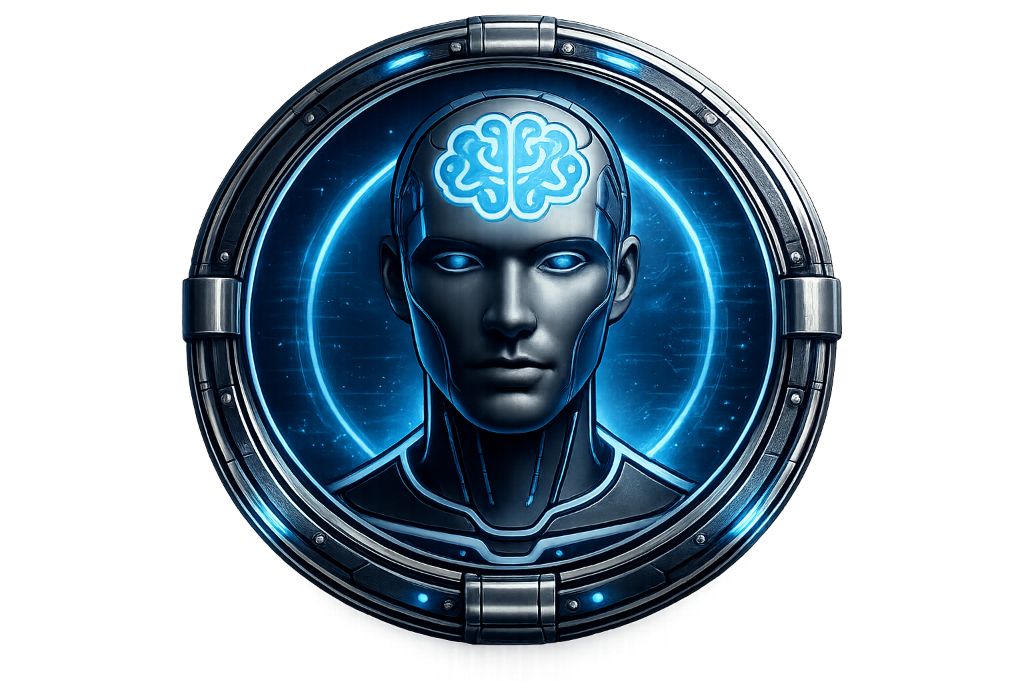
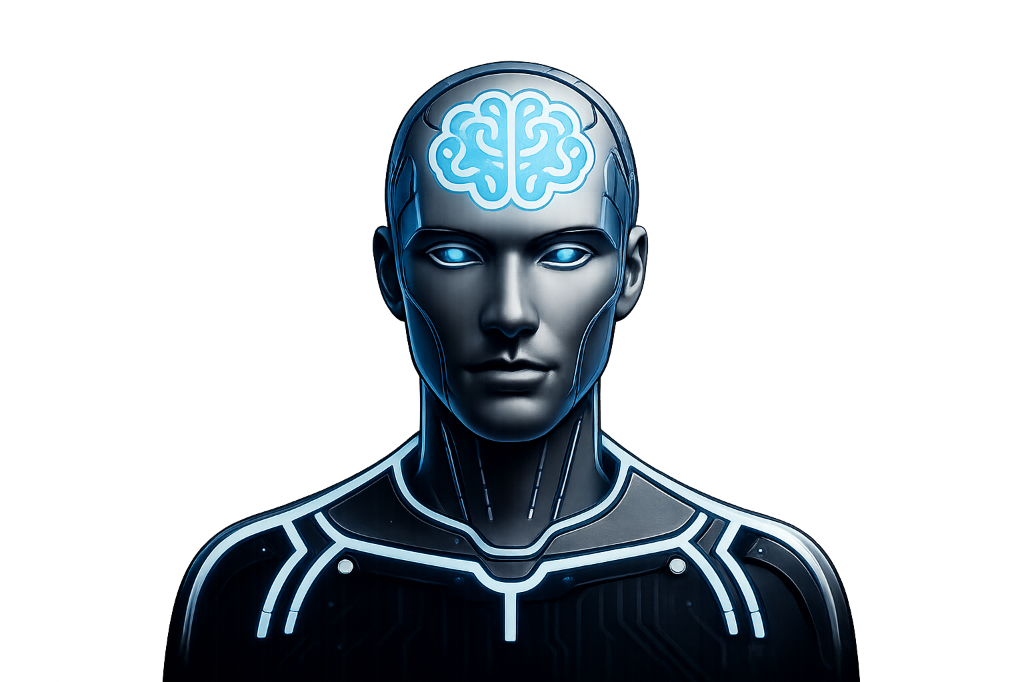
feat: remove goals from sidebar, add to hamburger menu + rule violation popup + jarvis UI update
1. Goals Box: removed from right sidebar, now accessible via
   hamburger menu under 'Bankroll Rules' → 'Goals'
2. Rule Violation Popup: after logging a session, checks bankroll
   rules (stop-loss, max buy-in %, win goal) and shows a notification
   popup when any rule is violated
3. Jarvis Box: background now matches page bg (dark navy), removed
   'Run AI analysis' text, new profile pic, enlarged avatar with border
4. New Jarvis avatar: user-provided cybernetic robot image

diff --git a/pages/hub/bankroll-manager.js b/pages/hub/bankroll-manager.js
@@ -217,6 +217,7 @@ export default function BankrollManagerPage() {
   const [locations, setLocations] = useState([]);
   const [leakAnalysis, setLeakAnalysis] = useState(null);
   const [showVenueModal, setShowVenueModal] = useState(false);
+  const [ruleViolations, setRuleViolations] = useState([]);
 
   //  INTRO VIDEO STATE - Video plays while page loads in background
   // Only show once per session (not on every reload)
@@ -294,6 +295,61 @@ export default function BankrollManagerPage() {
     setShowLogModal(false);
     setEditEntry(null);
     await loadData();
+
+    // Check rules for violations after logging
+    if (userId) {
+      try {
+        const rules = await fetchBankrollRules(userId);
+        if (rules && rules.length > 0) {
+          // Refresh stats & entries to get latest data
+          const dateRange = getDateRangeFilter(timeFilter);
+          const [latestStats, latestEntries] = await Promise.all([
+            getBankrollStats(userId, dateRange.startDate, dateRange.endDate, locationFilter),
+            fetchLedgerEntries(userId, { startDate: dateRange.startDate, endDate: dateRange.endDate, includeExpenses: true, limit: 50 }),
+          ]);
+
+          const violations = [];
+          const today = new Date().toISOString().split('T')[0];
+          const todayEntries = latestEntries.filter(e => e.entry_date === today);
+          const todayNet = todayEntries.reduce((sum, e) => sum + ((e.gross_out || 0) - (e.gross_in || 0)), 0);
+          const lastEntry = latestEntries[0];
+          const lastSessionNet = lastEntry ? ((lastEntry.gross_out || 0) - (lastEntry.gross_in || 0)) : 0;
+
+          for (const rule of rules) {
+            const val = rule.value;
+            switch (rule.rule_type) {
+              case 'stop_loss_session':
+                if (lastSessionNet < 0 && Math.abs(lastSessionNet) >= val)
+                  violations.push({ rule: 'Session Stop-Loss', limit: `$${val}`, actual: `-$${Math.abs(lastSessionNet)}`, severity: 'high' });
+                break;
+              case 'stop_loss_day':
+                if (todayNet < 0 && Math.abs(todayNet) >= val)
+                  violations.push({ rule: 'Daily Stop-Loss', limit: `$${val}`, actual: `-$${Math.abs(todayNet)}`, severity: 'high' });
+                break;
+              case 'max_buyin_percent': {
+                const bankroll = latestStats?.totalBankroll || 0;
+                if (bankroll > 0 && lastEntry) {
+                  const buyinPercent = ((lastEntry.gross_in || 0) / bankroll) * 100;
+                  if (buyinPercent > val)
+                    violations.push({ rule: 'Max Buy-In %', limit: `${val}%`, actual: `${buyinPercent.toFixed(1)}%`, severity: 'medium' });
+                }
+                break;
+              }
+              case 'win_goal_session':
+                if (lastSessionNet > 0 && lastSessionNet >= val)
+                  violations.push({ rule: 'Win Goal Reached!', limit: `$${val}`, actual: `+$${lastSessionNet}`, severity: 'info' });
+                break;
+            }
+          }
+
+          if (violations.length > 0) {
+            setRuleViolations(violations);
+          }
+        }
+      } catch (err) {
+        console.error('[RuleCheck] Error:', err);
+      }
+    }
   };
 
   // Gate Log+ behind bankroll check
@@ -874,6 +930,18 @@ export default function BankrollManagerPage() {
               </div>
             )}
 
+            {/* Goals View (from hamburger menu) */}
+            {activeSection === 'goals' && (
+              <div style={styles.activitySection}>
+                <h2 style={styles.sectionTitle}>Bankroll Goals</h2>
+                <BankrollGoals
+                  userId={userId}
+                  currentBankroll={stats?.currentBankroll || 0}
+                  periodPL={stats?.monthlyPL || 0}
+                />
+              </div>
+            )}
+
             {/* Player Notes View */}
             {activeSection === 'players' && (
               <PlayerNotes userId={userId} />
@@ -1111,13 +1179,6 @@ export default function BankrollManagerPage() {
             {/* Jarvis AI Insights */}
             <JarvisLeakInsights userId={userId} onRefresh={loadData} />
 
-            {/* Goals */}
-            <BankrollGoals
-              userId={userId}
-              currentBankroll={stats?.currentBankroll || 0}
-              periodPL={stats?.monthlyPL || 0}
-            />
-
             {/* Historical Comparison */}
             <HistoricalComparison entries={entries.filter(e => e.category === 'expense' || gameTypeFilter.has(e.category))} />
 
@@ -1222,6 +1283,103 @@ export default function BankrollManagerPage() {
               </motion.div>
             </motion.div>
           )
+        )}
+      </AnimatePresence>
+
+      {/* Rule Violation Notification Popup */}
+      <AnimatePresence>
+        {ruleViolations.length > 0 && (
+          <motion.div
+            initial={{ opacity: 0 }}
+            animate={{ opacity: 1 }}
+            exit={{ opacity: 0 }}
+            style={{
+              position: 'fixed', inset: 0,
+              background: 'rgba(0,0,0,0.75)',
+              backdropFilter: 'blur(6px)',
+              zIndex: 10000,
+              display: 'flex', alignItems: 'center', justifyContent: 'center',
+              padding: 20,
+            }}
+            onClick={() => setRuleViolations([])}
+          >
+            <motion.div
+              initial={{ scale: 0.9, y: 30 }}
+              animate={{ scale: 1, y: 0 }}
+              exit={{ scale: 0.9, y: 30 }}
+              transition={{ type: 'spring', damping: 20, stiffness: 250 }}
+              style={{
+                background: 'linear-gradient(160deg, rgba(15,15,30,0.98), rgba(20,10,35,0.98))',
+                borderRadius: 16,
+                border: '1px solid rgba(239,68,68,0.35)',
+                padding: '24px 28px',
+                maxWidth: 420,
+                width: '100%',
+                boxShadow: '0 20px 60px rgba(0,0,0,0.6), 0 0 40px rgba(239,68,68,0.1)',
+              }}
+              onClick={(e) => e.stopPropagation()}
+            >
+              {/* Header */}
+              <div style={{ display: 'flex', alignItems: 'center', gap: 12, marginBottom: 18 }}>
+                <div style={{
+                  width: 42, height: 42, borderRadius: '50%',
+                  background: ruleViolations.some(v => v.severity === 'high') ? 'rgba(239,68,68,0.2)' : ruleViolations.some(v => v.severity === 'info') ? 'rgba(34,197,94,0.2)' : 'rgba(245,158,11,0.2)',
+                  display: 'flex', alignItems: 'center', justifyContent: 'center',
+                  fontSize: 20,
+                }}>
+                  {ruleViolations.some(v => v.severity === 'high') ? '⚠' : ruleViolations.some(v => v.severity === 'info') ? '🎯' : '⚡'}
+                </div>
+                <div>
+                  <h3 style={{ margin: 0, fontSize: 17, fontWeight: 700, color: '#fff' }}>
+                    {ruleViolations.some(v => v.severity === 'info') ? 'Goal Reached!' : 'Rule Violation Alert'}
+                  </h3>
+                  <p style={{ margin: '2px 0 0', fontSize: 12, color: 'rgba(255,255,255,0.5)' }}>
+                    {ruleViolations.length} rule{ruleViolations.length > 1 ? 's' : ''} triggered
+                  </p>
+                </div>
+              </div>
+
+              {/* Violations List */}
+              <div style={{ display: 'flex', flexDirection: 'column', gap: 10, marginBottom: 20 }}>
+                {ruleViolations.map((v, i) => (
+                  <div key={i} style={{
+                    background: v.severity === 'high' ? 'rgba(239,68,68,0.08)' : v.severity === 'info' ? 'rgba(34,197,94,0.08)' : 'rgba(245,158,11,0.08)',
+                    border: `1px solid ${v.severity === 'high' ? 'rgba(239,68,68,0.25)' : v.severity === 'info' ? 'rgba(34,197,94,0.25)' : 'rgba(245,158,11,0.25)'}`,
+                    borderRadius: 10,
+                    padding: '12px 14px',
+                  }}>
+                    <div style={{ fontSize: 14, fontWeight: 600, color: v.severity === 'high' ? '#f87171' : v.severity === 'info' ? '#4ade80' : '#fbbf24', marginBottom: 4 }}>
+                      {v.rule}
+                    </div>
+                    <div style={{ display: 'flex', justifyContent: 'space-between', fontSize: 12, color: 'rgba(255,255,255,0.6)' }}>
+                      <span>Limit: {v.limit}</span>
+                      <span style={{ fontWeight: 600, color: v.severity === 'high' ? '#ef4444' : v.severity === 'info' ? '#22c55e' : '#f59e0b' }}>
+                        Actual: {v.actual}
+                      </span>
+                    </div>
+                  </div>
+                ))}
+              </div>
+
+              {/* Dismiss */}
+              <button
+                onClick={() => setRuleViolations([])}
+                style={{
+                  width: '100%',
+                  padding: '12px',
+                  background: 'rgba(255,255,255,0.08)',
+                  border: '1px solid rgba(255,255,255,0.15)',
+                  borderRadius: 10,
+                  color: '#fff',
+                  fontSize: 14,
+                  fontWeight: 600,
+                  cursor: 'pointer',
+                }}
+              >
+                Got It
+              </button>
+            </motion.div>
+          </motion.div>
         )}
       </AnimatePresence>
 

diff --git a/src/components/bankroll/JarvisLeakInsights.jsx b/src/components/bankroll/JarvisLeakInsights.jsx
@@ -65,9 +65,6 @@ export default function JarvisLeakInsights({ userId, onRefresh }) {
                 <img src="/images/jarvis-avatar.png" alt="Jarvis" style={styles.triggerAvatar} />
                 <div style={styles.triggerText}>
                     <span style={styles.triggerTitle}>Jarvis Insights</span>
-                    <span style={styles.triggerHint}>
-                        {insights ? 'View analysis' : 'Run AI analysis'}
-                    </span>
                 </div>
                 <span style={styles.triggerArrow}>›</span>
             </button>
@@ -232,8 +229,8 @@ const styles = {
         gap: 10,
         width: '100%',
         padding: '12px 14px',
-        background: 'linear-gradient(135deg, rgba(0,0,40,0.95), rgba(30,0,60,0.9))',
-        border: '1px solid rgba(139,92,246,0.3)',
+        background: 'linear-gradient(160deg, rgba(8,16,32,0.95) 0%, rgba(12,24,48,0.92) 50%, rgba(8,20,40,0.90) 100%)',
+        border: '1px solid rgba(139,92,246,0.25)',
         borderRadius: 12,
         cursor: 'pointer',
         marginBottom: 16,
@@ -241,10 +238,11 @@ const styles = {
         transition: 'border-color 0.2s, box-shadow 0.2s',
     },
     triggerAvatar: {
-        width: 28,
-        height: 28,
+        width: 36,
+        height: 36,
         borderRadius: '50%',
         flexShrink: 0,
+        border: '1.5px solid rgba(139,92,246,0.3)',
     },
     triggerText: {
         flex: 1,

diff --git a/src/config/hamburgerMenus.js b/src/config/hamburgerMenus.js
@@ -389,6 +389,7 @@ export const MENU_CONFIGS = {
             createMenuItem.toggle('Auto-Save', state.autoSave !== false, handlers.setAutoSave),
             createMenuItem.toggle('Notifications', state.notifications !== false, handlers.setNotifications),
             createMenuItem.navigation('Bankroll Rules', '/hub/bankroll-manager?view=rules'),
+            createMenuItem.navigation('Goals', '/hub/bankroll-manager?view=goals'),
             createMenuItem.navigation('Export Data', '/hub/bankroll-manager/export')
         ],
         bottomLinks: [
